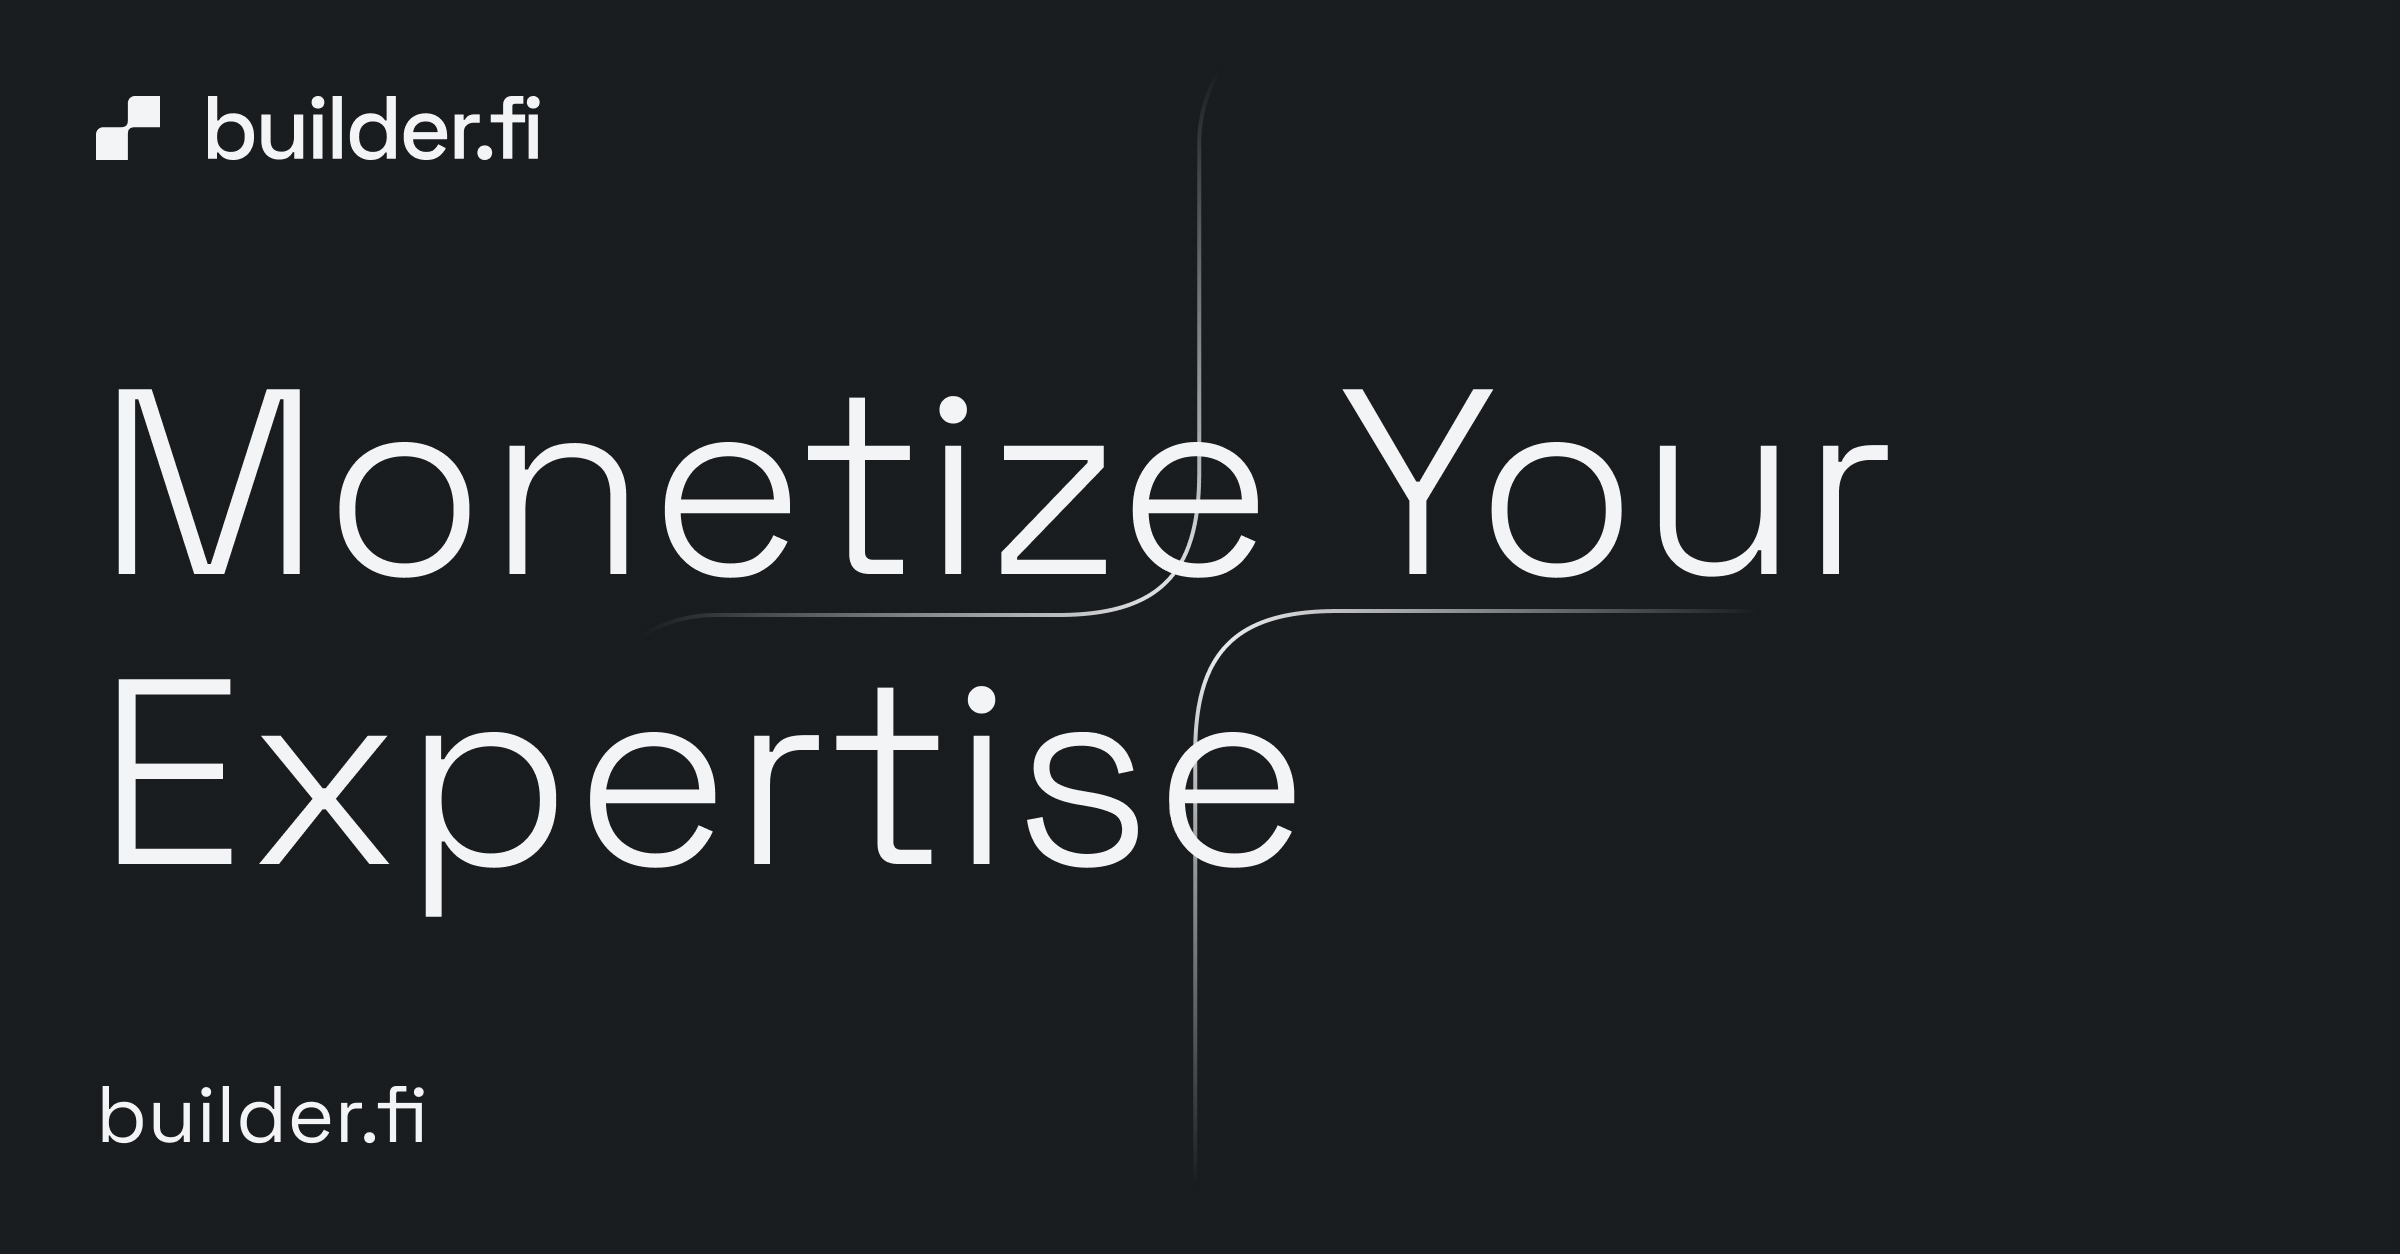
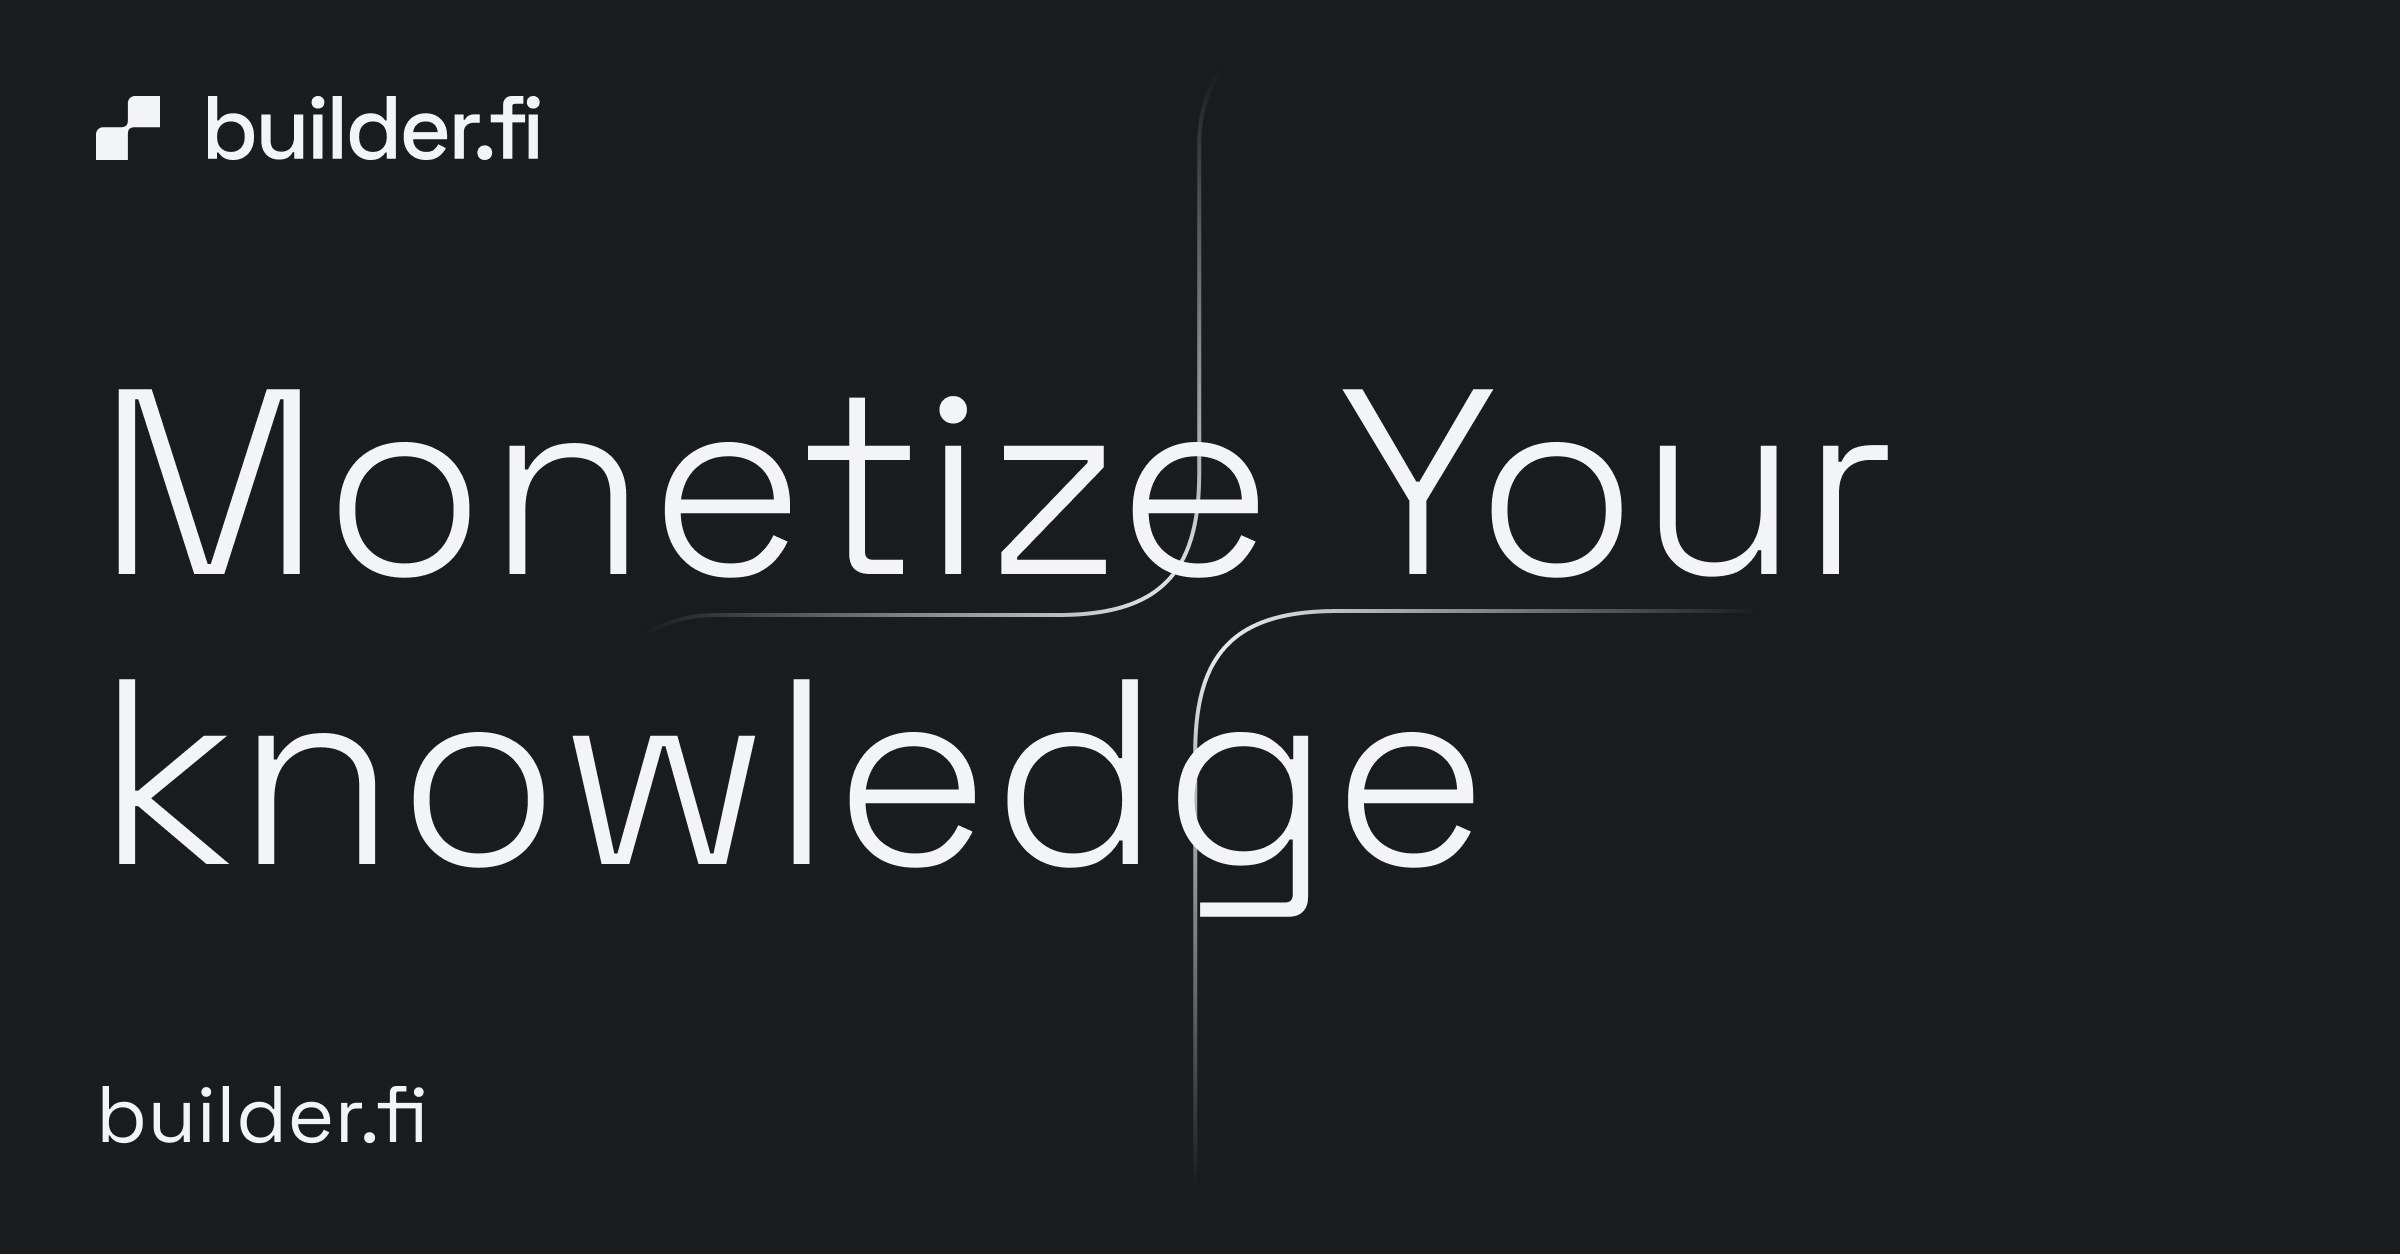
Update thumbnail

Changed region(s): [[0.0312, 0.5287, 0.625, 0.7464], [0.0312, 0.5287, 0.0938, 0.5598]]

diff --git a/index.html b/index.html
@@ -11,8 +11,8 @@
     <meta property="og:title" content="builder.fi by Talent Protocol" />
     <meta name="twitter:card" content="summary_large_image" />
     <meta property="og:description" content="Q&A marketplace for top builders." />
-    <meta property="og:image" content="https://builder.fi/thumbnail.jpg?1">
-    <meta property="twitter:image" content="https://builder.fi/thumbnail.jpg?1">
+    <meta property="og:image" content="https://builder.fi/thumbnail.jpg?2">
+    <meta property="twitter:image" content="https://builder.fi/thumbnail.jpg?2">
     <!-- Google tag (gtag.js) -->
     <script async src="https://www.googletagmanager.com/gtag/js?id=G-JPQF3DZ3Z6"></script>
     <script>
